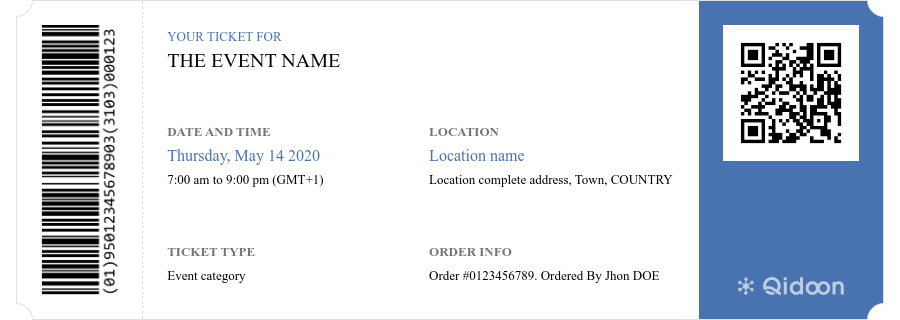
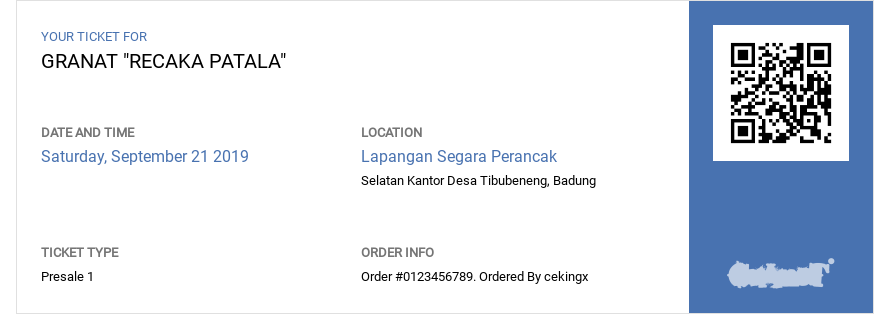
final template

diff --git a/src/index.ts b/src/index.ts
@@ -10,9 +10,10 @@ const generateQR = async (text: any) => {
         <html>
           <head>
             <style>
+              @import url('https://fonts.googleapis.com/css2?family=Roboto&display=swap');
               body {
-                width: 900px;
-                height: 320px;
+                width: 890px;
+                height: 314px;
               }
 
               .ticket {
@@ -102,38 +103,6 @@ const generateQR = async (text: any) => {
                 flex-direction: column;
                 position: relative;
               }
-              .ticket--end:before {
-                content: '';
-                width: 32px;
-                height: 32px;
-                background-color: #fff;
-                border: 1px solid #e0e0e0;
-                border-top-color: transparent;
-                border-right-color: transparent;
-                border-bottom-color: transparent;
-                position: absolute;
-                transform: rotate(-45deg);
-                right: -18px;
-                top: -2px;
-                margin-top: -16px;
-                border-radius: 50%;
-              }
-              .ticket--end:after {
-                content: '';
-                width: 32px;
-                height: 32px;
-                background-color: #fff;
-                border: 1px solid #e0e0e0;
-                border-right-color: transparent;
-                border-left-color: transparent;
-                border-bottom-color: transparent;
-                position: absolute;
-                transform: rotate(-45deg);
-                right: -18px;
-                top: 100%;
-                margin-top: -16px;
-                border-radius: 50%;
-              }
               .ticket--end > div:first-child {
                 flex: 1;
               }
@@ -179,42 +148,38 @@ const generateQR = async (text: any) => {
           </head>
           <body>
             <div class="ticket">
-              <div class="ticket--start">
-                <img src="https://i.ibb.co/W3cK42J/image-1.png"/>
-              </div>
               <div class="ticket--center">
                 <div class="ticket--center--row">
                   <div class="ticket--center--col">
                     <span>Your ticket for</span>
-                    <strong>The event name</strong>
+                    <strong>GrAnat "Recaka Patala"</strong>
                   </div>
                 </div>
                 <div class="ticket--center--row">
                   <div class="ticket--center--col">
                     <span class="ticket--info--title">Date and time</span>
-                    <span class="ticket--info--subtitle">Thursday, May 14 2020</span>
-                    <span class="ticket--info--content">7:00 am to 9:00 pm (GMT+1)</span>
+                    <span class="ticket--info--subtitle">Saturday, September 21 2019</span>
                   </div>
                   <div class="ticket--center--col">
                     <span class="ticket--info--title">Location</span>
-                    <span class="ticket--info--subtitle">Location name</span>
-                    <span class="ticket--info--content">Location complete address, Town, COUNTRY</span>
+                    <span class="ticket--info--subtitle">Lapangan Segara Perancak</span>
+                    <span class="ticket--info--content">Selatan Kantor Desa Tibubeneng, Badung</span>
                   </div>
                 </div>
                 <div class="ticket--center--row">
                   <div class="ticket--center--col">
                     <span class="ticket--info--title">Ticket type</span>
-                    <span class="ticket--info--content">Event category</span>
+                    <span class="ticket--info--content">Presale 1</span>
                   </div>
                   <div class="ticket--center--col">
                     <span class="ticket--info--title">Order info</span>
-                    <span  class="ticket--info--content">Order #0123456789. Ordered By Jhon DOE</span>
+                    <span  class="ticket--info--content">Order #0123456789. Ordered By cekingx</span>
                   </div>
                 </div>
               </div>
               <div class="ticket--end">
                 <div><img src="{{imageSource}}" /></div>
-                <div><img src="https://qidoon.com/assets/img/logo.svg"/></div>
+                <div><img src="https://www.granatsmft.com/js/images/index.png"/></div>
               </div>
             </div>
           </body>
